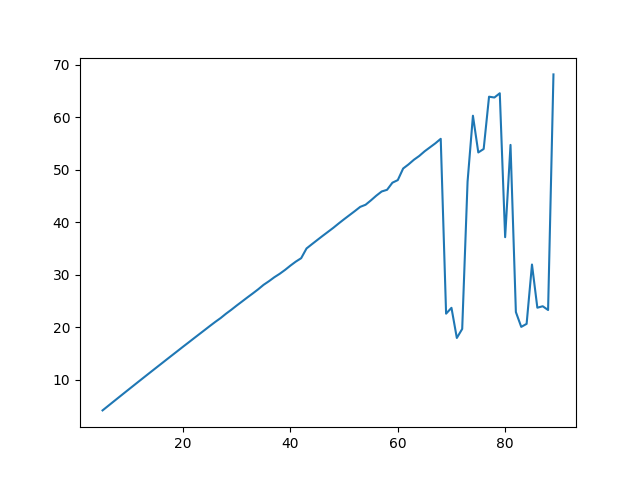
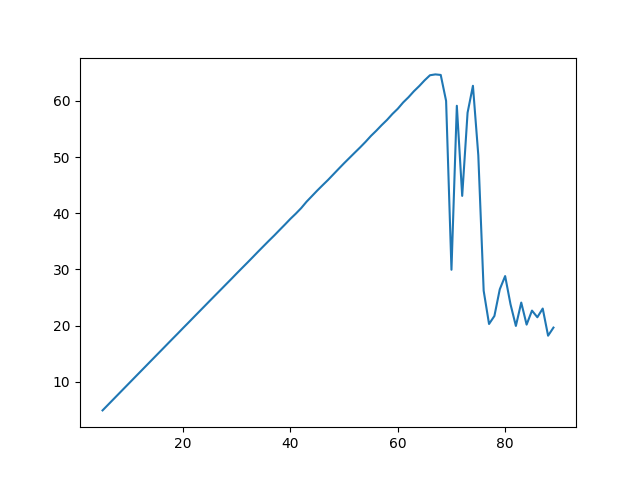
Test camera continue

diff --git a/ironcar_light.py b/ironcar_light.py
@@ -96,18 +96,13 @@ class Ironcar():
 
 
         cam.resolution = CAM_RESOLUTION
-        #cam_output = PiRGBArray(cam, size=CAM_RESOLUTION)
-        #stream = cam.capture_continuous(cam_output, format="rgb", use_video_port=True)
+        cam_output = PiRGBArray(cam, size=CAM_RESOLUTION)
+        stream = cam.capture_continuous(cam_output, format="rgb", use_video_port=True)
 
-
-        #for f in stream:
-        while True:
-            output = np.empty((160, 208, 3), dtype=np.uint8)
-            cam.capture(output, 'rgb', use_video_port=True)
-
+        for f in stream:
             if self.verbose and self.count == 1:
                 print(cam.exposure_speed)
-            img_arr = output[:146, :200, :]
+            img_arr = f.array
             
             #if self.count == 8:
             #    import sys
@@ -116,7 +111,7 @@ class Ironcar():
             #    img.show()
             #    sys.exit(0)
 
-            #cam_output.truncate(0)
+            cam_output.truncate(0)
             prediction = 0
             # Predict the direction only when needed
             if self.started:

diff --git a/cam_conti_test.py b/cam_conti_test.py
@@ -1,0 +1,32 @@
+import numpy as np
+from picamera import PiCamera
+import time
+import matplotlib.pyplot as plt
+from picamera.array import PiRGBArray
+
+CAM_RESOLUTION = (200, 146)
+loop = 10
+true_fps = []
+camera = PiCamera()
+start = 5
+end = 90
+
+cam_output = PiRGBArray(camera, size=CAM_RESOLUTION)
+stream = camera.capture_continuous(cam_output, format="rgb", use_video_port=True)
+
+for fps in range(start, end):
+    print(fps)
+    camera.framerate = fps
+    camera.resolution = CAM_RESOLUTION
+    save_time = time.time()
+    count = 0
+    for f in stream:
+        img_arr = f.array
+        cam_output.truncate(0)
+        count += 1
+        if count == loop:
+            break
+    true_fps.append(loop/(time.time()-save_time))
+
+plt.plot(range(start, end), true_fps)
+plt.savefig('testcamcontinu.png')
